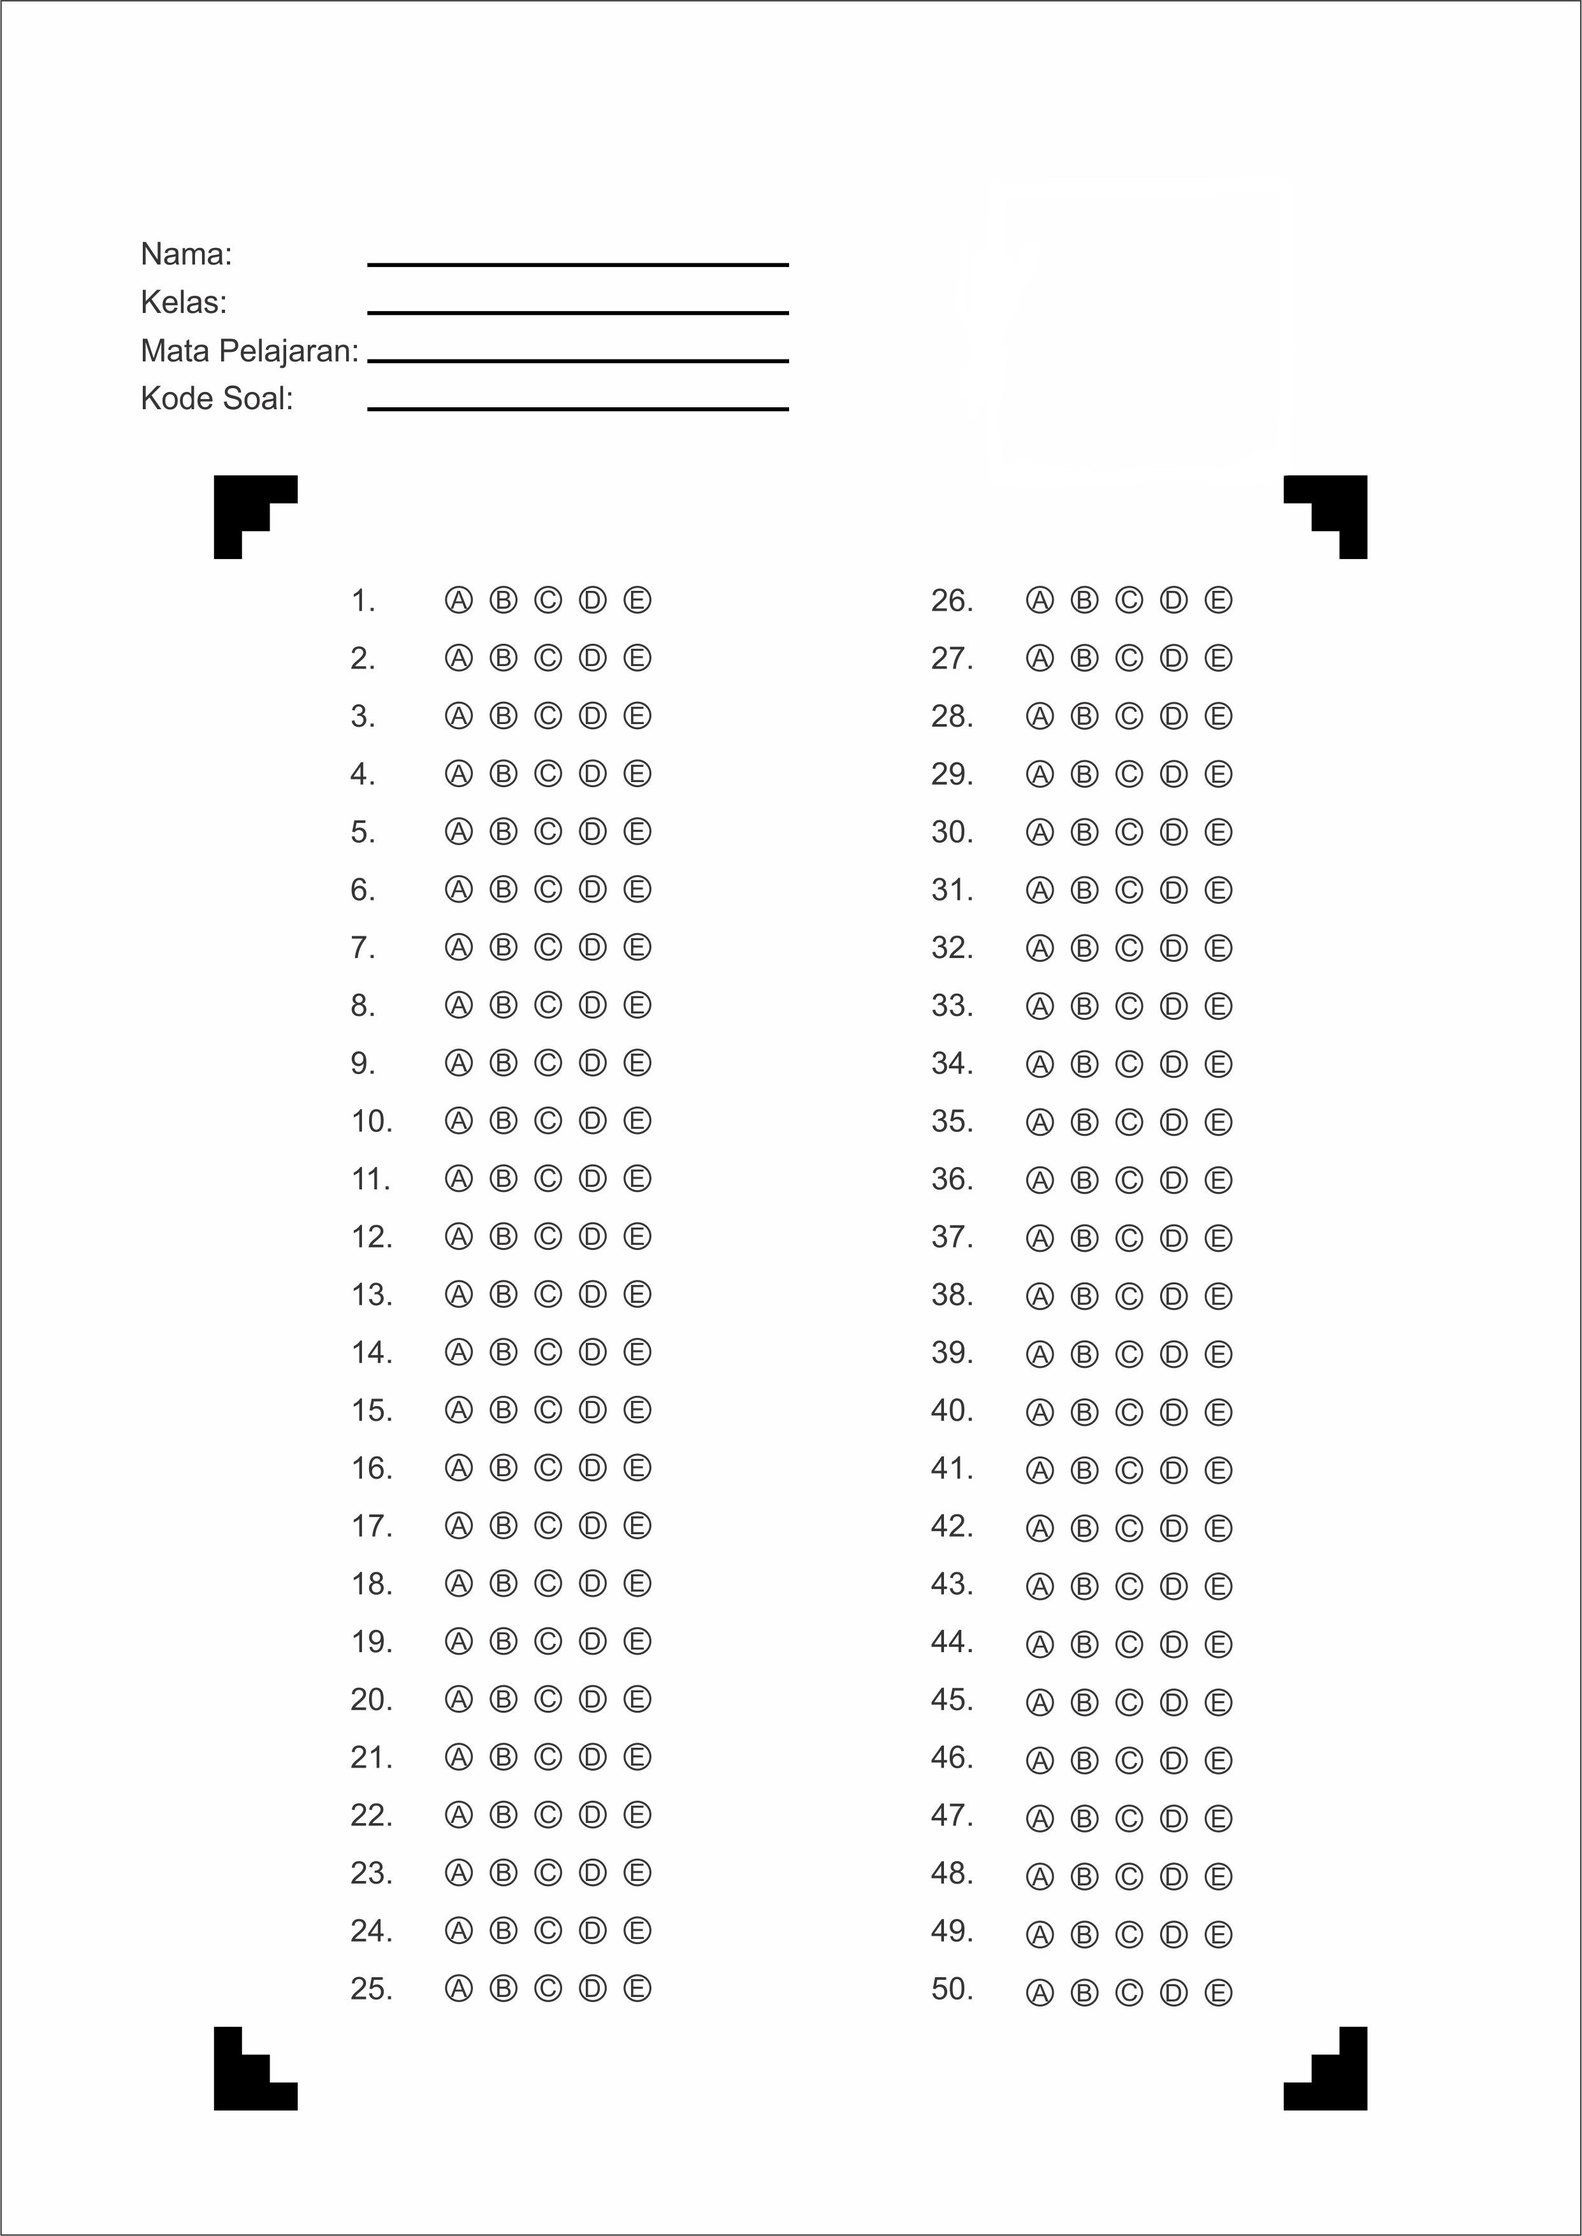
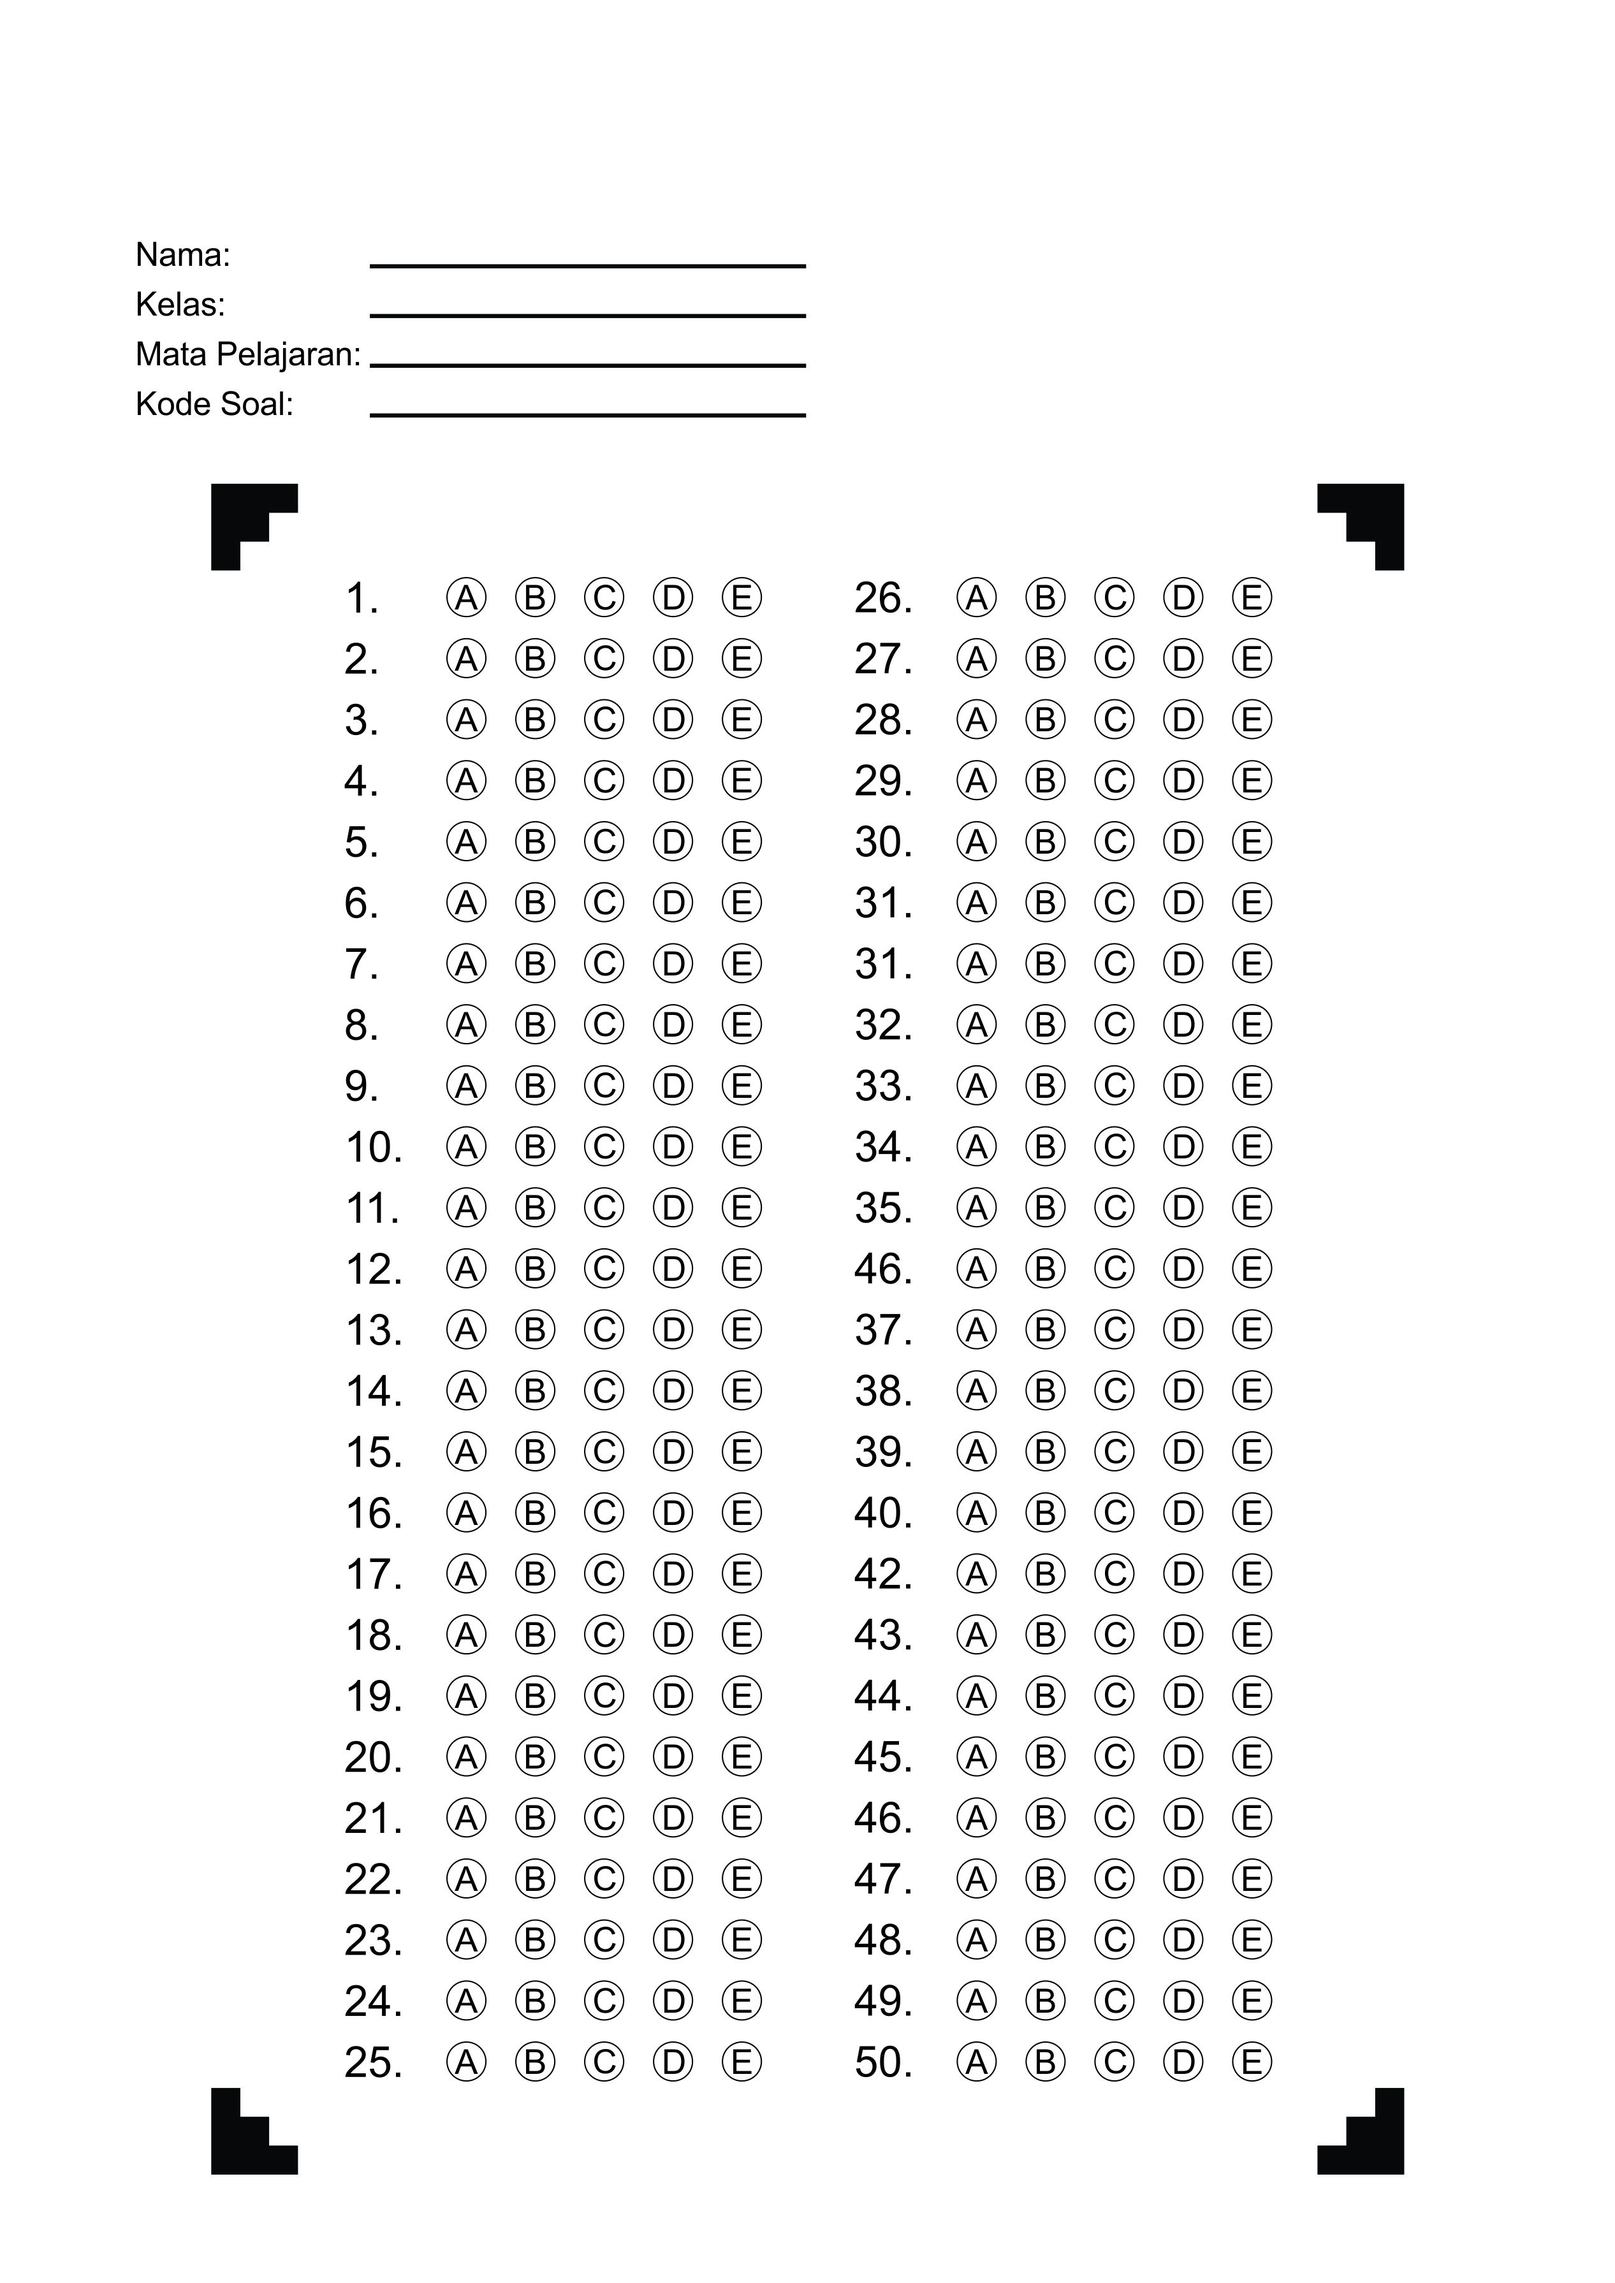
sudah bisa camera

diff --git a/create_test_sheets.py b/create_test_sheets.py
@@ -23,10 +23,10 @@ def create_ljk(obj, path):
     qr_img = np.float32(qr_img)
 
     # put identity to sheet
-    cv2.putText(sheet, obj['nama'], (590, 403), cv2.FONT_HERSHEY_SIMPLEX, 1.8, (0, 0, 0), 3)
-    cv2.putText(sheet, obj['nama_kelas'], (590, 480), cv2.FONT_HERSHEY_SIMPLEX, 1.8, (0, 0, 0), 3)
-    cv2.putText(sheet, obj['nama_mapel'], (590, 550), cv2.FONT_HERSHEY_SIMPLEX, 1.8, (0, 0, 0), 3)
-    cv2.putText(sheet, obj['kode_soal'], (590, 620), cv2.FONT_HERSHEY_SIMPLEX, 1.8, (0, 0, 0), 3)
+    cv2.putText(sheet, obj['nama'], (590, 403), cv2.FONT_HERSHEY_DUPLEX, 1.8, (0, 0, 0), 3)
+    cv2.putText(sheet, obj['nama_kelas'], (590, 480), cv2.FONT_HERSHEY_DUPLEX, 1.8, (0, 0, 0), 3)
+    cv2.putText(sheet, obj['nama_mapel'], (590, 553), cv2.FONT_HERSHEY_DUPLEX, 1.8, (0, 0, 0), 3)
+    cv2.putText(sheet, obj['kode_soal'], (590, 630), cv2.FONT_HERSHEY_DUPLEX, 1.8, (0, 0, 0), 3)
 
     #crop and resize QR code
     size = 560
@@ -47,9 +47,7 @@ def create_ljk(obj, path):
     img_name = kode_soal + '_' + nama + ".png"
     # save ljk in directory
     cv2.imwrite(os.path.join( path, img_name) , sheet)
-    # cv2.imshow('hasil', cv2.resize(sheet, (0,0), fx=0.3, fy=0.3) )
-    # cv2.waitKey(0)
-
+    
 def build(data_siswa):
     path = data_siswa[0]['kode_soal'] + '-' + data_siswa[0]['nama_kelas'].replace(' ', '')
     path_zip = path + '.zip'
@@ -76,5 +74,28 @@ def build(data_siswa):
     ljk_zip.close()
     shutil.rmtree(path)
     return path_zip
+
+data_siswa = [
+    {
+    'id_paket_soal': 1,
+    'kode_soal': '8.BIND.23.11',
+    'nama_mapel': 'Bahasa Indonesia',
+    'id_kelas': 1,
+    'nama_kelas': 'VIII - 3',
+    'id_siswa': 1,
+    'nama': 'Much. Arafat A. M.',
+    'id_mapel': 1
+    }
+    ,{
+    'id_siswa': 2,
+    'id_kelas': 1,
+    'id_mapel': 1,
+    'id_paket_soal': 1,
+    'nama': 'Hasan Mubarok',
+    'nama_kelas': 'VIII - 3',
+    'nama_mapel': 'Bahasa Indonesia',
+    'kode_soal': '8.BIND.23.11'
+    }
+]
 
 # build(data_siswa)

diff --git a/run.py b/run.py
@@ -23,12 +23,11 @@ def grading(data_uri):
 	global mx 
 	global my
 
-	cv2.namedWindow('Original Image')
-	cv2.namedWindow('Scanned Paper')
+	# cv2.namedWindow('Original Image')
+	# cv2.namedWindow('Scanned Paper')
 
-	#ret, image = cap.read()
-	# cari ljk3
-	image = cv2.imread("ljk8.jpg")
+	image = data_uri_to_cv2_img(data_uri)
+	# image = cv2.imread("ljk8.jpg")
 	ratio = len(image[0]) / 500.0 #used for resizing the image
 	original_image = image.copy() #make a copy of the original image
 
@@ -94,7 +93,7 @@ def grading(data_uri):
 		#warp persepctive
 		paper = cv2.warpPerspective(original_image, M, (425, 550))
 		answers, paper, codes = ProcessPage(paper)
-		cv2.imshow("Scanned Paper", paper)
+		# cv2.imshow("Scanned Paper", paper)
 
 	#draw the contour
 	if biggestContour is not None:
@@ -106,8 +105,8 @@ def grading(data_uri):
 		else:
 			cv2.drawContours(image, [biggestContour], -1, (0, 0, 255), 3)
 
-	cv2.imshow("Original Image", cv2.resize(image, (0, 0), fx=0.7, fy=0.7))
-	cv2.waitKey(0)
+	# cv2.imshow("Original Image", cv2.resize(image, (0, 0), fx=0.7, fy=0.7))
+	# cv2.waitKey(0)
 	return codes, answers
 
 

diff --git a/resource_build_ljk.py b/resource_build_ljk.py
@@ -40,4 +40,13 @@ class BuildLJKResource(Resource):
 			path_zip = build(rows)
 			return send_file(path_zip, as_attachment=True)
 		return {"data": rows}
+
+	def post(self):
+		parser = reqparse.RequestParser()
+		parser.add_argument("data_uri",location='json')
+		args = parser.parse_args()
+
+		codes, answers = grading(args['data_uri'])
+
+		return {"codes": codes, "answer": answers}, 200 
 		
